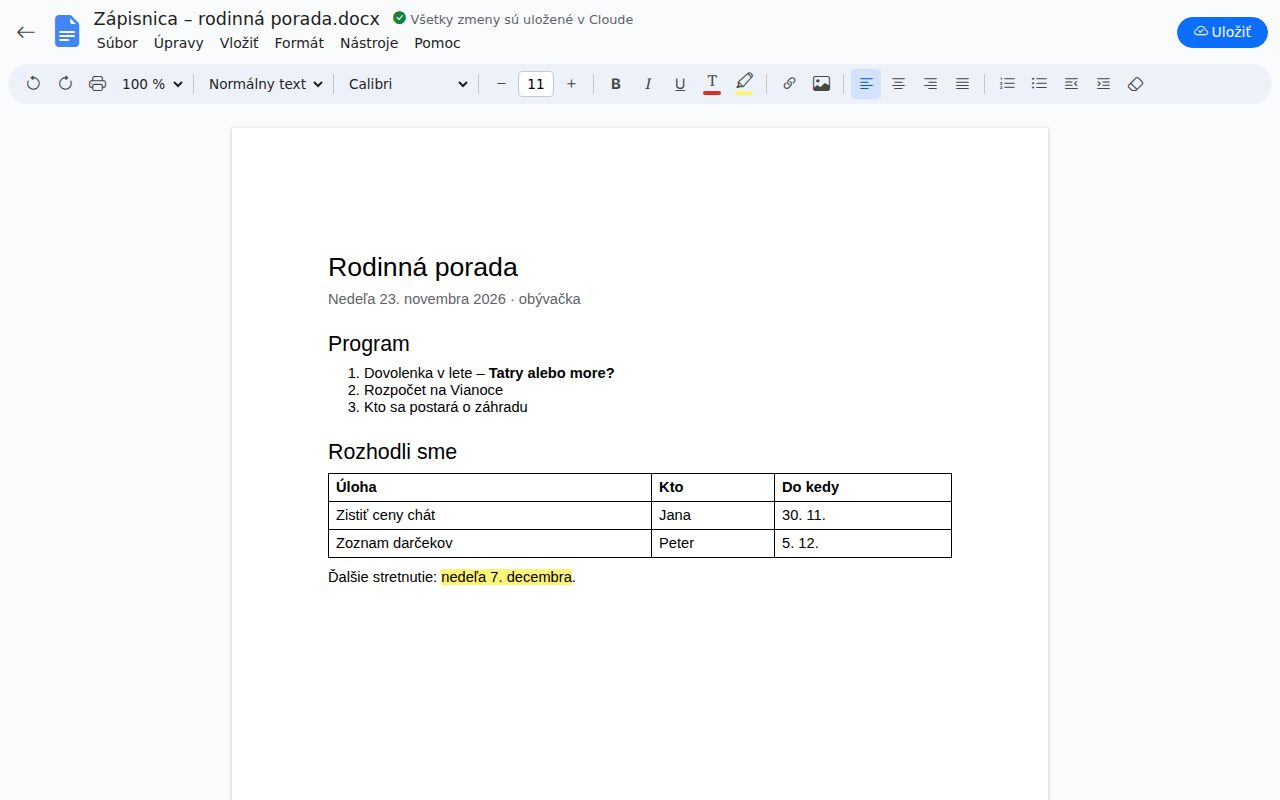
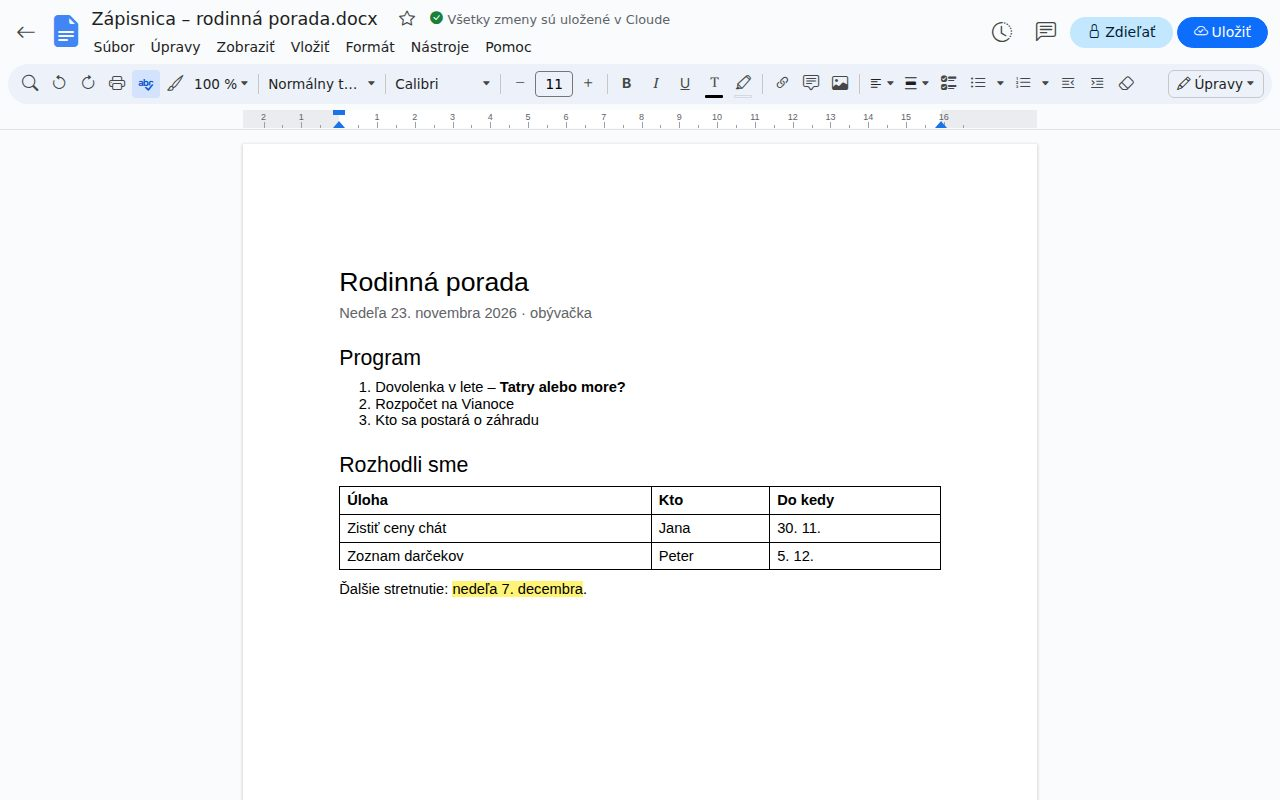
Príručka: nové snímky editora dokumentov a tabuliek
Claude-Session: https://claude.ai/code/session_01W5HT8LxJ1cx1BgCJBHr9TX

diff --git a/server/inc/help/user.php b/server/inc/help/user.php
@@ -133,7 +133,7 @@ ako Google Tabuľky, je celý po slovensky a beží v tvojom prehliadači (nič 
   <li><b>Vzorce:</b> začínajú <code>=</code>, napr. <code>=SUM(B2:B5)</code>, <code>=AVERAGE(…)</code>, <code>=IF(B2&gt;100;"veľa";"málo")</code>, <code>=VLOOKUP(…)</code>, <code>=COUNTIF(…)</code>, <code>=ROUND(…)</code>, <code>=TODAY()</code> – stovky funkcií Excelu.
     Pri písaní sa ukazuje <b>nápoveda funkcie</b> s popisom argumentov. Oddeľovať môžeš bodkočiarkou aj čiarkou. <b>Vložiť → Súčet</b> spočíta stĺpec nad bunkou.</li>
 </ul>
-<?= fig('u-tabulka-menu', 'Ponuka Formát: formáty čísel (mena, percentá, dátum), písmo, zlúčenie a podmienené formátovanie.') ?>
+<?= fig('u-tabulka-menu', 'Ponuka Formát s podponukami: číslo, text, zarovnanie, zalamovanie, otočenie, veľkosť písma, zlúčenie, podmienené formátovanie a striedavé farby.') ?>
 <h3>Ponuky ako v Google Tabuľkách</h3>
 <p>Ponuky majú podponuky (prejdi myšou alebo klikni na položku so šípkou). Keď nevieš, kde čo je, stlač <kbd>Alt</kbd>+<kbd>/</kbd> (alebo lupu vľavo na paneli nástrojov) a napíš, čo hľadáš – napr. „tlač“, „ukotviť“, „duplikáty“.</p>
 <table class="table table-sm">
